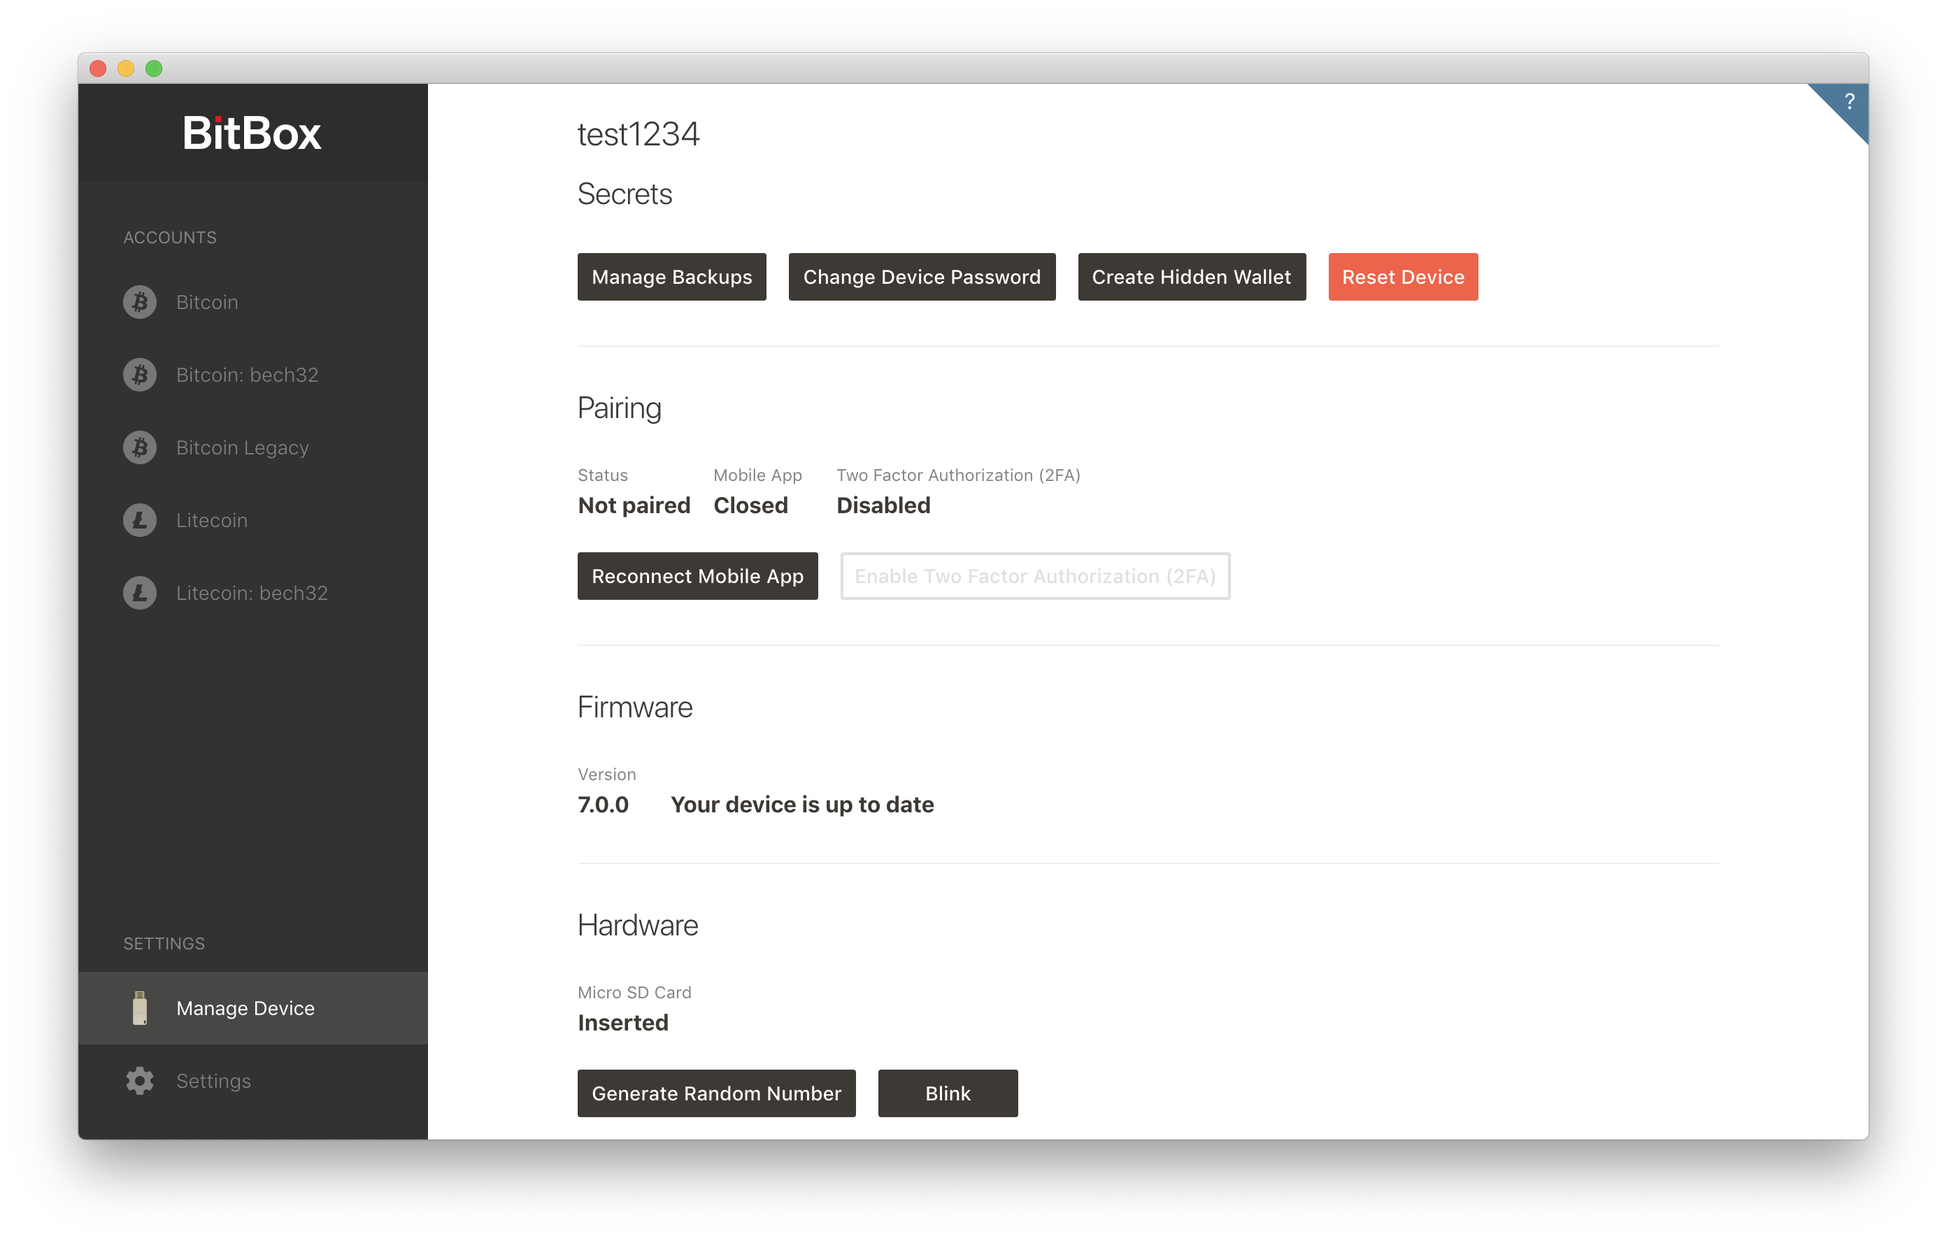
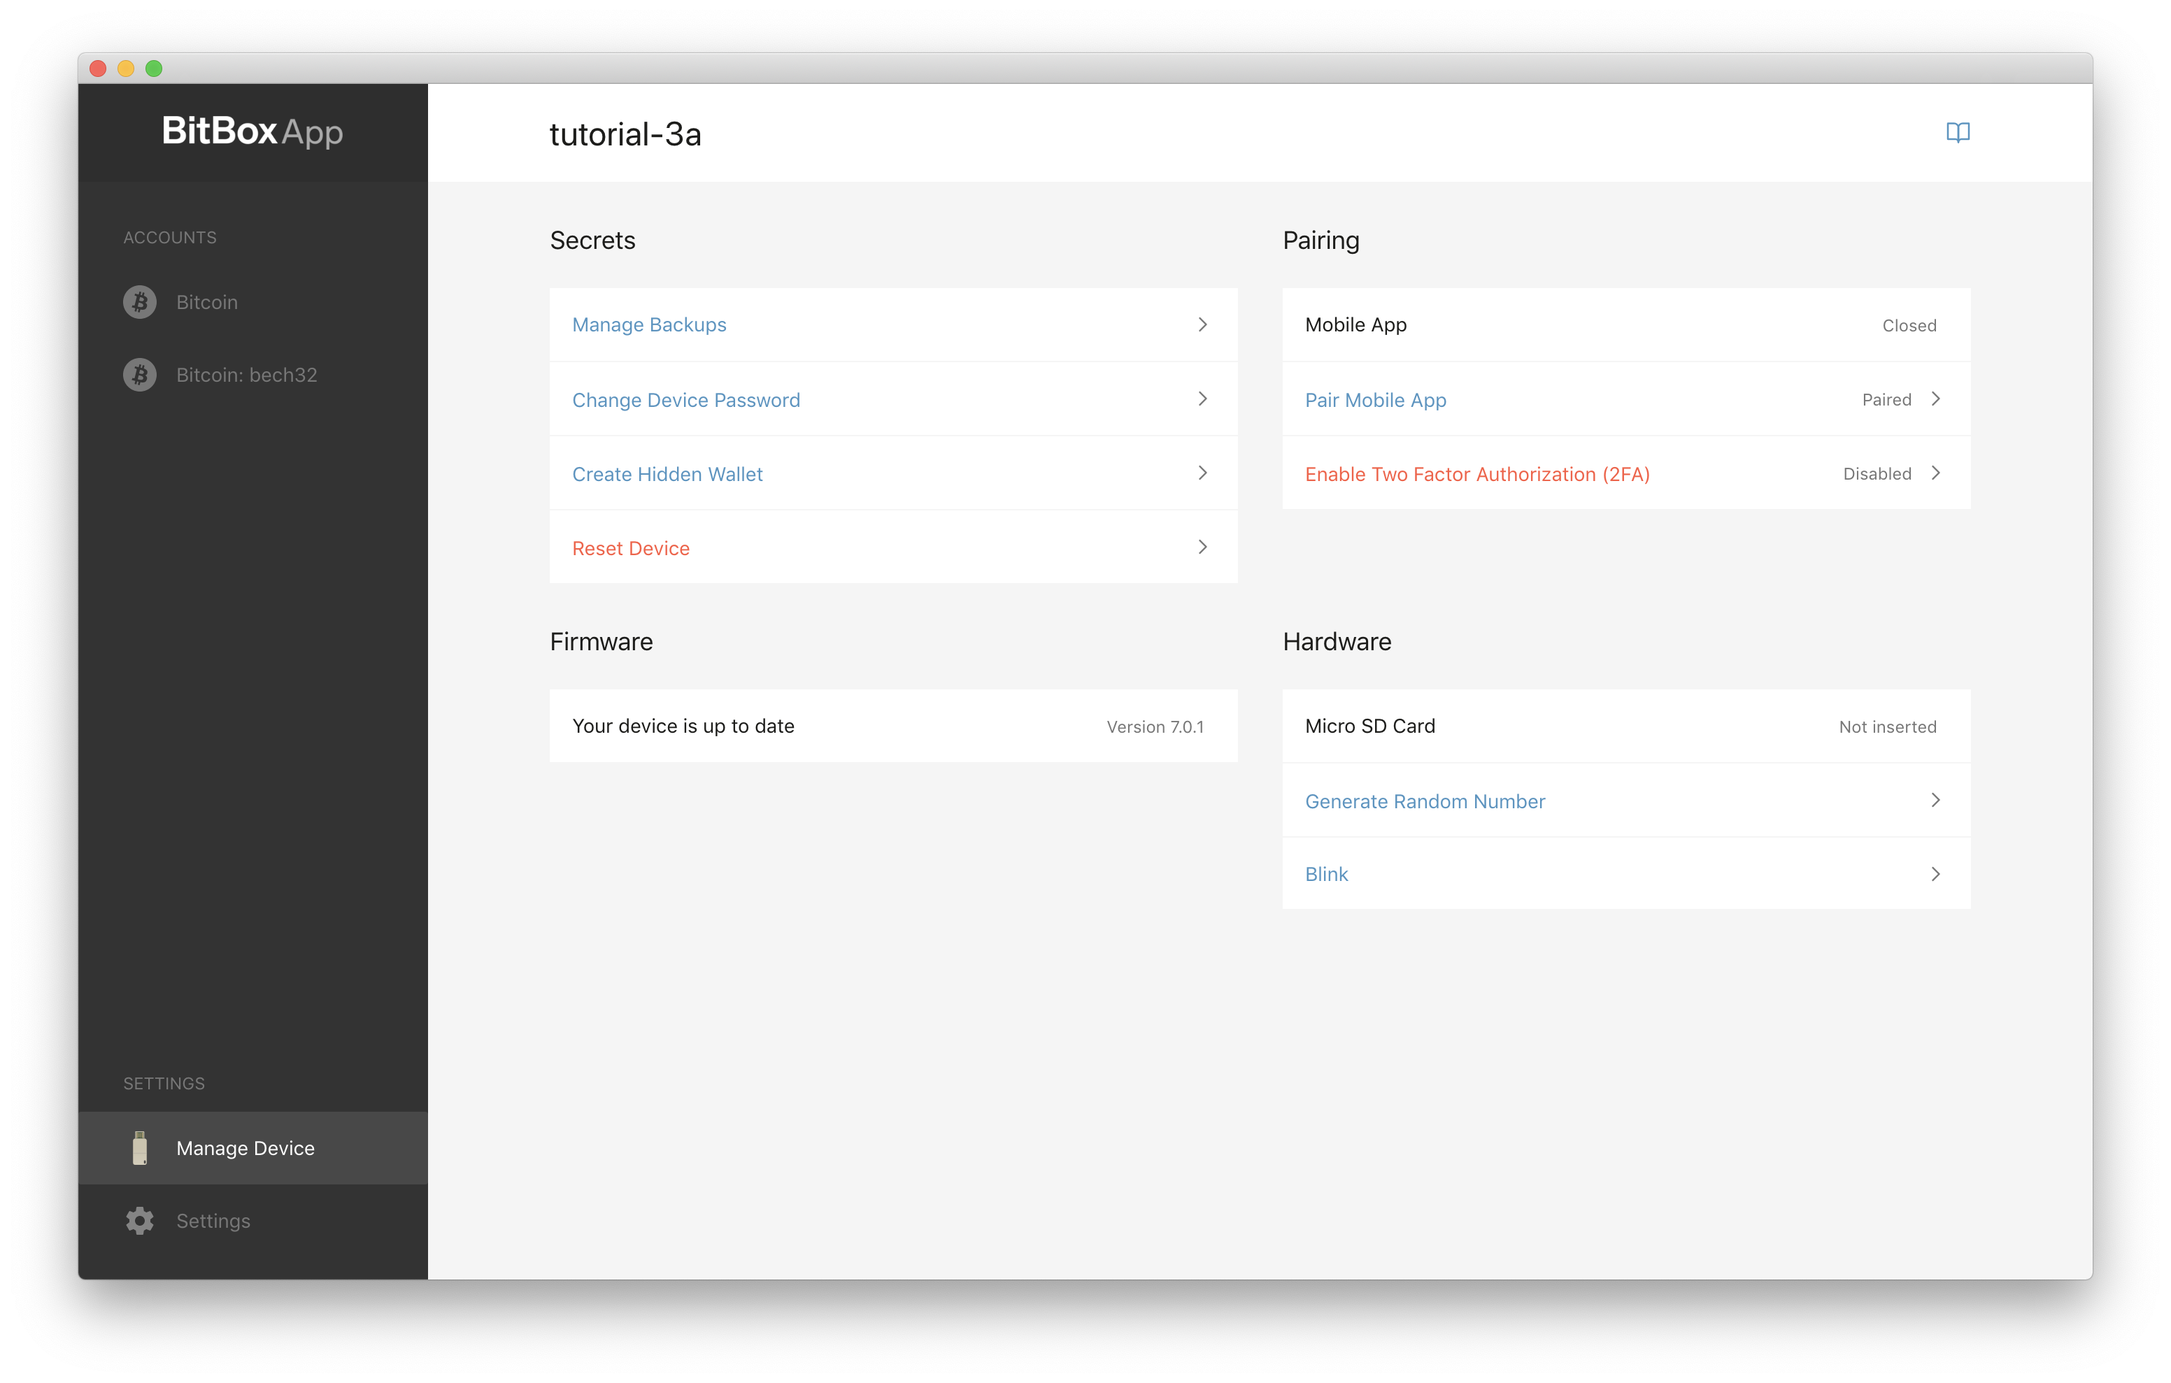
updated all App screenshots

diff --git a/_includes/shared/setup.md b/_includes/shared/setup.md
@@ -51,18 +51,19 @@ Please take the time to check each characters.
 ![alt text]({% link assets/images/BitBox02_wizard/step2.png %})
 
 If both codes match please confirm on your {{include.product}}. Then click "Continue" in the BitBox App.
-### Step 3: Choose if you want to create a new wallet or restore an existing wallet
+### Step 3: Create new wallet or restore an existing wallet
 
 Now you are asked to choose if you want to create a new wallet or restore an existing wallet.
 
 ![alt text]({% link assets/images/BitBox02_wizard/step3.png %})
 
-- If this is the first time you create a wallet, choose "Create Wallet".
-
 - If you already used a {{include.product}} before and you want to restore your wallet from your backup choose "Restore Backup" and follow [this guide]({% link bitbox02/Basic-features/restore_from_backup.md %})
 
 - If you used a different hardware wallet before and you want to restore from the seed phrase created by that other wallet, choose "Restore from BIP-39 mnemonic" and follow [this guide]({% link 404.html %}) (TODO)
 >**Attention**: The BitBox02 only supports Segwit (starting with 3...) and Native-Segwit (starting with bc1....) accounts. If you import a seed phrase that you used with the Legacy address format (starting with 1...) you won't see these coins in the BitBox App. We recommend you to move these coins to a Segwit or Native-Segwit account.
+
+- If this is the first time you create a wallet, choose "Create Wallet" and continue reading this guide.
+
 
 ### Step 4: Create a wallet
 First you need to give your wallet a name. This name can be anything, choose a name that you will recognise in the future when you might need to restore from your backup.
@@ -92,22 +93,24 @@ Your {{include.product}} will then ask you to confirm today's date as that is ne
 - You can at any point check that you still have a valid backup. To do so follow [this guide]({% link bitbox02/Basic-features/managing_backups.md %}#verifying-a-backup.md)
 
 {% elsif include.product == "BitBox01" %}
-### Step 1: Choose if you want to create a new wallet or restore an existing wallet
+### Step 1: Create new wallet or restore an existing wallet
 Now you are asked to choose if you want to create a new wallet or restores an existing wallet.
 
-If this is the first time you create a wallet choose "Create Wallet".
+- If you already used a {{include.product}} before and you want to restore your wallet from your backup, choose "Restore a wallet from a backup" and follow [this guide]({% link bitbox01/basic-features/restore_from_backup.md %}).
 
-If you already used a {{include.product}} before and you want to restore your wallet from your backup file choose "Restore a wallet from a backup". (Link to restore wallet)
+- If this is the first time you create a wallet, choose "Create a new wallet" and continue with this guide.
+
 ![alt text]({% link assets/images/BitBox01_setup/bb01_setup1.png  %})
+
 
 ### Step 2: Understand the {{include.product}} passwords
 The {{include.product}} makes use of two passwords:
-* a **device password**, that you need whenever you want to use your {{include.product}}. This password can be changed later.
-* a **recovery password** that protects your backup. This password can **NOT** be changed later.
+* A **device password** that you need whenever you want to use your {{include.product}}. This password can be changed later.
+* A **recovery password** that protects your backup. This password can **NOT** be changed later.
 
 **Important:** If you lose your {{include.product}} you will need your backup microSD card **AND** the recovery password in order to restore your wallet. **Just the backup microSD card is not enough.**
 
-**Therefore please ensure that you keep your recovery password and backup microSD card safe.**
+**Therefore please ensure that you keep your recovery password and backup microSD card safe and accessible.**
 ![alt text]({% link assets/images/BitBox01_setup/bb01_setup2.png %})
 
 ### Step 3: Start the setup process
@@ -115,19 +118,19 @@ Read the information and click "Continue"
 ![alt text]({% link assets/images/BitBox01_setup/bb01_setup3.png %})
 
 ### Step 4: Set device password
-Now please set and confirm your device password. This password is needed whenever you want to use your {{include.product}}. It password can be changed later.
+Now please set and confirm your device password. This password is needed whenever you want to use your {{include.product}}. It can be changed later.
 
 Click "Set device password"
 ![alt text]({% link assets/images/BitBox01_setup/bb01_setup4.png %})
 
 ### Step 5: Create wallet and microSD card backup
-Next your wallet will be created. For that your microSD card needs to be plugged in, so that the backup file can be saved on it.
+Next your wallet will be created. For that your microSD card needs to be inserted, so that the backup file can be saved on it.
 
-If your have not yet plugged in a microSD card, please do so now and click "Set recovery password now".
+If your have not yet inserted a microSD card into your {{ include.product }}, please do so now and click "Set recovery password now".
 ![alt text]({% link assets/images/BitBox01_setup/bb01_setup5.png %})
 
 ### Step 6: Set recovery password
-In this step you will set the recovery password that protects your backup microSD card.
+In this step you will set the recovery password that protects your wallet backup on the microSD card.
 
 This password can **NOT** be changed later.
 
@@ -139,7 +142,7 @@ Please also give your wallet a name that you can remember.
 
 ### Step 7: Start stacking sats
 Great! Your {{include.product}} is ready to use. Please make sure that you store your microSD backup in a **secure location.**
->The microSD card is not needed to use your {{ include.product }} in normal use. It is only needed when you want to restore your wallet from your microSD backup.
+>The microSD card is not needed to use your {{ include.product }} in normal use. It is only needed when you want to restore your wallet from your microSD backup. Please store your microSD card in a secure location. 
 {% if include.product == "BitBox02" %}
 ![alt text]({% link assets/images/BitBox02_wizard/step7.png %})
 {% elsif include.product == "BitBox01" %}

diff --git a/bitbox01/basic-features/managing_backups.md b/bitbox01/basic-features/managing_backups.md
@@ -17,11 +17,11 @@ grand_parent: BitBox01
 {:toc}
 
 ---
-Please make sure you have the microSD card with your backup plugged into your BitBox01.
+Please make sure you have the microSD card with your backup inserted into your BitBox01.
 ## Listing the backup files
 In order to check which backup files are on your microSD card, click "Manage Backups"
 ![alt text]({% link assets/images/BitBox01_random/bb01_device_settings1.png %})
-You will then see a list of all backup files that are on the currently plugged-in microSD card.
+You will then see a list of all backup files that are on the currently inserted microSD card.
 
 Normally that is just one file.
 ![alt text]({% link assets/images/BitBox01_random/bb01_backup1.png %})
@@ -32,13 +32,12 @@ In order to verify a backup select it, then click "Check Backup".
 You will then be asked to input the recovery password for that wallet backup file.
 
 ![alt text]({% link assets/images/BitBox01_random/bb01_backup2.png %})
-**If the backup file + recovery password generates the same wallet as you are currently using on your BitBox01 it will say: "Backup matches the wallet."**
+- **If the backup file + recovery password generates the same wallet as you are currently using on your BitBox01 it will say: "Backup matches the wallet."**
 
-**If you input a different recovery password a different wallet will be generated which therefore does not match the wallet you are currently using on your BitBox01 and the app will tell you: "Backup does NOT match the wallet."**
+- **If you input a different recovery password a different wallet will be generated which therefore does not match the wallet you are currently using on your BitBox01 and the app will tell you: "Backup does NOT match the wallet."**
 
 **Info:** There is no such thing as an incorrect recovery password. Your recovery password is combined with your wallet backup file and a wallet is generated from that. If you input a different recovery password (not the one you used when you generated your wallet) it will still generate a valid wallet, however that wallet won't contain your coins. You can think of the recovery password like a "passphrase". For more information [check this guide]({% link bitbox02/Advanced-features/passphrase.md %})
 
-You should then see a pop-up like this:
 
 ## Creating a new backup
 If your backup was destroyed or you would just like to create another backup to store in a different location you can easily do that. All you need is a fresh microSD card which the new backup will be stored on.
@@ -47,14 +46,11 @@ If your backup was destroyed or you would just like to create another backup to 
 ![alt text]({% link assets/images/BitBox01_random/bb01_device_settings1.png %})
 
 You should then see the following:
-![alt text]({% link assets/images/BitBox02_backups/backups4.png %})
+![alt text]({% link assets/images/BitBox01_random/bb01_no_backups.png %})
 
-### Click "Create Backup"
-![alt text]({% link assets/images/BitBox02_backups/backups5.png %})
-
-### Follow instructions in the App
+### Click "Create" and follow instructions in the App
 Next you should see a pop-up asking you to give the wallet backup file a name and input the recovery password of your current wallet.
 
-If the recovery password **matches**, a new wallet backup file will be saved on the microSD card.
+- If the recovery password **matches**, a new wallet backup file will be saved on the microSD card.
 
-If the recovery password **does not matches**, a new wallet backup file will still be saved on the microSD card (as the backup file is valid).
+- If the recovery password **does not matches**, a new wallet backup file will still be saved on the microSD card (as the backup file is valid).

diff --git a/bitbox01/advanced-features/bitbox01_pairing.md b/bitbox01/advanced-features/bitbox01_pairing.md
@@ -15,11 +15,11 @@ grand_parent: BitBox01
 {:toc}
 
 
-## Smart verification using the BitBox mobile app
 ![alt text]({% link assets/images/BitBox01_pairing/pair1.png %})
 
 There are two levels of pairing available:
-### Normal pairing:
+
+## Normal pairing:
 - Lets you verify addresses on your smartphone
 - Requires you to confirm transactions on your smartphone
 
@@ -54,7 +54,7 @@ Then wait a few seconds until a connection is established and click "begin" in t
 ![alt text]({% link assets/images/BitBox01_pairing/pair4.png  %})
 Your BitBox01 will then blink, asking you to perform a long-touch on the LED in order to confirm that you want to pair.
 
-After that you will see the following screen on your mobile app (left). Please click "BLINK".
+After that you will see the following screen on your mobile app. Please click "BLINK".
 Your BitBox01 will then blink between 1-4 times, please count and press the correct number in the mobile app.
 Please repeat that until you can click "FINISH"
 
@@ -69,12 +69,13 @@ In the "Manage Device" settings you should then see "Status" paired
 
 
 
-## Verifying addresses and transactions
+### Verifying addresses and transactions
+Information received by the BitBox01 automatically displays in the mobile app when connected to the internet.
+Otherwise, get the information by scanning QR codes presented by the desktop app.
+
 ![alt text]({% link assets/images/BitBox01_pairing/ios_receiving.png  %}){:height="250" width="250"}
 ![alt text]({% link assets/images/BitBox01_pairing/ios_sending_01.png  %}){:height="250" width="250"}
 
-Information received by the BitBox displays automatically in the mobile when connected to the internet.
-Otherwise, get the information by scanning QR codes presented by the desktop app.
 
 
 ## Full second-factor authentication (2FA)
@@ -82,4 +83,4 @@ Otherwise, get the information by scanning QR codes presented by the desktop app
 
 When full 2FA is enabled, possession of the mobile phone is required in order to spend coins. Full 2FA is enabled using the 'Settings' tab in the desktop app. Under the hood, an encrypted single-use PIN is sent to the mobile app, decrypted there, and returned to the BitBox when pressing the Accept button.
 
->**Warning!** Be sure that you have a valid microSD card backup and know your recovery password before enabling 2FA. [Click here to see how to check if you have a valid backup.]({%link bitbox01/basic-features/managing_backups.md %}#verifying-a-backup) Once enabled, the micro SD slot, necessary for backups, and mobile app pairing is disabled. These are re-enabled only after resetting your BitBox. To then restore your wallet you will need the microSD card backup and your recovery password!
+>**Warning!** Be sure that you have a valid microSD card backup and know your recovery password before enabling 2FA. [Click here to see how to check if you have a valid backup.]({%link bitbox01/basic-features/managing_backups.md %}#verifying-a-backup) Once enabled, the microSD slot, necessary for backups, and mobile app pairing is disabled. These are re-enabled only after resetting your BitBox01. To then restore your wallet you will need the **microSD card backup and your recovery password!**

diff --git a/bitbox01/basic-features/restore_from_backup.md b/bitbox01/basic-features/restore_from_backup.md
@@ -19,7 +19,7 @@ grand_parent: BitBox01
 In order to reset from a backup, your BitBox01 needs to be reset.
 
 ## Plug in the microSD card with your backup and plug in the BitBox01
-In order to be able to restore from a backup file, the microSD card with the backup on it needs to be plugged in. Once done, plug in your BitBox01 with the BitBox App running.
+In order to be able to restore from a backup file, the microSD card with the backup on it needs to be inserted into the BitBox01. Once done, plug in your BitBox01.
 
 
 ## Choose that you want to restore from a backup file
@@ -27,7 +27,7 @@ Please select that you want to restore from a backup file on your microSD card b
 ![alt text]({% link assets/images/BitBox01_setup/bb01_setup1.png %})
 
 ## Start the restoring process
-The BitBox App will now remind you that your microSD card with your backup file needs to be plugged into the BitBox01 and that you will need recovery password.
+The BitBox App will now remind you that your microSD card with your backup file needs to be inserted into the BitBox01 and that you will need recovery password.
 
 Click "Continue"
 
@@ -44,13 +44,15 @@ Next you will choose the wallet backup file you want to restore from and input t
 Click "Continue"
 ![alt text]({% link assets/images/BitBox01_restore/bb01_restore4.png %})
 
-Select wallet backup file and click "Restore"
+Select the wallet backup file and click "Restore"
 ![alt text]({% link assets/images/BitBox01_restore/bb01_restore5.png %})
 
-Input the recovery password for that wallet.
+Next input the recovery password for that wallet.
 
 **Attention:** There will be no error if you input a different recovery password than the one you used when you created your wallet. The BitBox01 does not store information about your recovery password and therefore can't "check" if it is the same one you used before or not.
 If you cannot find your funds after you restored you have most likely inputed a different recovery password. In that case, please restore from your backup again and make sure that you input the same recovery password you used when you created your wallet.
+
+Check the box and click "Restore".
 
 ![alt text]({% link assets/images/BitBox01_restore/bb01_restore7.png %})
 
@@ -58,7 +60,6 @@ If you cannot find your funds after you restored you have most likely inputed a 
 ## Done! Start using your BitBox01
 You have successfully restored your wallet and can continue using your BitBox01 as usual.
 
-Please make sure you store your backup microSD card in a secure location and that you don't lose your recovery password.
-
-**Reminder:** Only the backup + recovery password allows you to restore your wallet. One of the two is not enough.
+>Please make sure you store your backup microSD card in a secure location and that you don't lose your recovery password.
+**Reminder:** Only the backup microSD + recovery password allows you to restore your wallet. One of the two is not enough.
 ![alt text]({% link assets/images/BitBox01_restore/bb01_restore8.png %})

diff --git a/bitbox01/advanced-features/reset.md b/bitbox01/advanced-features/reset.md
@@ -28,6 +28,5 @@ If you want to reset your BitBox01 without the BitBox App, just type in an incor
 Go to "Device Settings" and select "Reset Device."
 ![alt text]({% link assets/images/BitBox02_reset/reset1.png %})
 
-Then type in your device password in order to confirm that you want to reset the BitBox01, tick the box to confirm that you have a valid backup and recovery password (if you are not sure, please verify by following [this guide]({% link bitbox01/basic-features/managing_backups.md %}#verifying-a-backup)
-) and click "Reset Device".
+Then type in your device password in order to confirm that you want to reset the BitBox01, tick the box to confirm that you have a valid backup and recovery password (if you are not sure, please verify by following [this guide]({% link bitbox01/basic-features/managing_backups.md %}#verifying-a-backup)) and click "Reset Device".
 ![alt text]({% link assets/images/BitBox01_random/bb01_reset.png %})

diff --git a/_includes/shared/device_settings.md b/_includes/shared/device_settings.md
@@ -21,7 +21,7 @@ It let's you:
 ## Pairing section
 The pairing section let's you pair your {{include.product}} with your smartphone via our mobile app. That allows you to require a second factor for your transactions and let's you verify the generated receive address on your Smartphone.
 
-To set up Two-Factor-Authentication follow this guide (coming soon)
+To set up Two-Factor-Authentication follow [this guide]({% link bitbox01/advanced-features/bitbox01_pairing.md %}).
 
 {% endif %}
 
